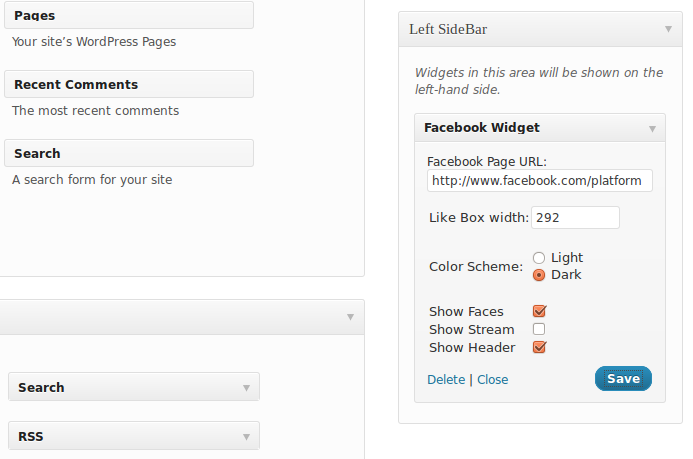
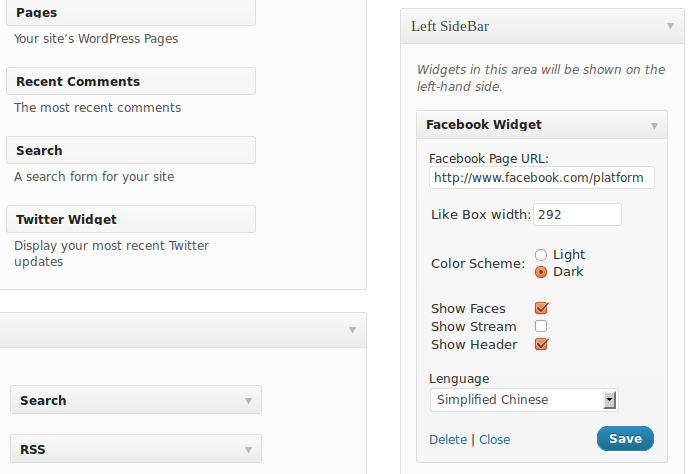
version 1.1 add locales
git-svn-id: https://plugins.svn.wordpress.org/simple-facebook-plugin/trunk@435681 b8457f37-d9ea-0310-8a92-e5e31aec5664

diff --git a/simple-facebook-plugin.php b/simple-facebook-plugin.php
@@ -3,7 +3,7 @@
 Plugin Name: Simple Facebook Plugin
 Plugin URI: http://fornyhucker.blogspot.com/
 Description: Create sidebar widget that display Facebook Like Box.
-Version: 1.0
+Version: 1.1
 Author: Ilya Kopturov
 Author URI: http://fornyhucker.blogspot.com/
 License: GPL
@@ -28,7 +28,7 @@ class FacebookWidget extends WP_Widget {
 			js = d.createElement('script'); 
 			js.id = id; 
 			js.async = true;
-			js.src = "//connect.facebook.net/en_US/all.js#xfbml=1";
+			js.src = "//connect.facebook.net/<?php echo $instance['local']; ?>/all.js#xfbml=1";
 			d.getElementsByTagName('head')[0].appendChild(js);
 		}(document));
 		</script>
@@ -48,10 +48,11 @@ class FacebookWidget extends WP_Widget {
 		$instance = $old_instance;
 		$instance['facebook_page_url'] 	= strip_tags( $new_instance[ 'facebook_page_url' ] );
 		$instance['width']				= strip_tags( $new_instance[ 'width' ] );
-		$instance['colorscheme']		= $new_instance[ 'colorscheme' ] ;
 		$instance['show_faces']			= isset( $new_instance[ 'show_faces'] );
 		$instance['stream']				= isset( $new_instance[ 'stream' ] );
 		$instance['header']				= isset( $new_instance[ 'header' ] );
+		$instance['colorscheme']		= $new_instance[ 'colorscheme' ] ;
+		$instance['local']				= $new_instance[ 'local' ] ;
 		return $instance;
 	}
 
@@ -65,6 +66,7 @@ class FacebookWidget extends WP_Widget {
 			$show_faces			= $instance[ 'show_faces'] ;
 			$stream				= $instance[ 'stream' ] ;
 			$header				= $instance[ 'header' ] ;
+			$local				= $instance[ 'local' ] ;
 		} else {
 			//default options
 			$facebook_page_url 	= 'http://www.facebook.com/platform';
@@ -73,6 +75,7 @@ class FacebookWidget extends WP_Widget {
 			$show_faces			= true;
 			$stream				= false;
 			$header				= true;
+			$local				= 'en_US';
 		}
 		?>
 		<p>
@@ -113,6 +116,42 @@ class FacebookWidget extends WP_Widget {
 				<input id="<?php echo $this->get_field_id('header'); ?>" type="checkbox" name="<?php echo $this->get_field_name('header'); ?>" <?php checked(isset($header) ? $header : 0); ?>/> 
 			</td></tr>
 		</table>
+		<br/>
+		<p>
+				<label for="<?php echo $this->get_field_id('local'); ?>"><?php _e('Lenguage'); ?></label> 
+				<select name="<?php echo $this->get_field_name('local'); ?>">
+					<option <?php selected(( $local == 'cs_CZ') ? 1 : 0);?> value="cs_CZ" >Czech</option>
+					<option <?php selected(( $local == 'da_DK') ? 1 : 0);?> value="da_DK" >Danish</option>
+					<option <?php selected(( $local == 'nl_NL') ? 1 : 0);?> value="nl_NL" >Dutch</option>
+					<option <?php selected(( $local == 'en_US') ? 1 : 0);?> value="en_US" >English (US)</option>
+					<option <?php selected(( $local == 'en_GB') ? 1 : 0);?> value="en_GB" >English (UK)</option>
+					<option <?php selected(( $local == 'et_EE') ? 1 : 0);?> value="et_EE" >Estonian</option>
+					<option <?php selected(( $local == 'fr_FR') ? 1 : 0);?> value="fr_FR" >French</option>
+					<option <?php selected(( $local == 'de_DE') ? 1 : 0);?> value="de_DE" >German</option>
+					<option <?php selected(( $local == 'it_IT') ? 1 : 0);?> value="it_IT" >Italian</option>
+					<option <?php selected(( $local == 'ja_JP') ? 1 : 0);?> value="ja_JP" >Japanese</option>
+					<option <?php selected(( $local == 'ko_KR') ? 1 : 0);?> value="ko_KR" >Korean</option>
+					<option <?php selected(( $local == 'lv_LV') ? 1 : 0);?> value="lv_LV" >Latvian</option>
+					<option <?php selected(( $local == 'lt_LT') ? 1 : 0);?> value="lt_LT" >Lithuanian</option>
+					<option <?php selected(( $local == 'pl_PL') ? 1 : 0);?> value="pl_PL" >Polish</option>
+					<option <?php selected(( $local == 'pt_PT') ? 1 : 0);?> value="pt_PT" >Portuguese</option>
+					<option <?php selected(( $local == 'ro_RO') ? 1 : 0);?> value="ro_RO" >Romanian</option>
+					<option <?php selected(( $local == 'ru_RU') ? 1 : 0);?> value="ru_RU" >Russian</option>
+					<option <?php selected(( $local == 'es_LA') ? 1 : 0);?> value="es_LA" >Spanish</option>
+					<option <?php selected(( $local == 'es_ES') ? 1 : 0);?> value="es_ES" >Spanish (Spain)</option>
+					<option <?php selected(( $local == 'es_CL') ? 1 : 0);?> value="es_CL" >Spanish (Chile)</option>
+					<option <?php selected(( $local == 'es_CO') ? 1 : 0);?> value="es_CO" >Spanish (Colombia)</option>
+					<option <?php selected(( $local == 'es_MX') ? 1 : 0);?> value="es_MX" >Spanish (Mexico)</option>
+					<option <?php selected(( $local == 'es_VE') ? 1 : 0);?> value="es_VE" >Spanish (Venezuela)</option>
+					<option <?php selected(( $local == 'sv_SE') ? 1 : 0);?> value="sv_SE" >Swedish</option>
+					<option <?php selected(( $local == 'zh_CN') ? 1 : 0);?> value="zh_CN" >Simplified Chinese</option>
+					<option <?php selected(( $local == 'zh_TW') ? 1 : 0);?> value="zh_TW" >Traditional Chinese (Taiwan)</option>
+					<option <?php selected(( $local == 'th_TH') ? 1 : 0);?> value="th_TH" >Thai</option>
+					<option <?php selected(( $local == 'tr_TR') ? 1 : 0);?> value="tr_TR" >Turkish</option>
+					<option <?php selected(( $local == 'uk_UA') ? 1 : 0);?> value="uk_UA" >Ukrainian</option>
+					<option <?php selected(( $local == 'tl_ST') ? 1 : 0);?> value="tl_ST" >Klingon</option>
+				</select>
+		</p>
 		<?php 
 	}
 
